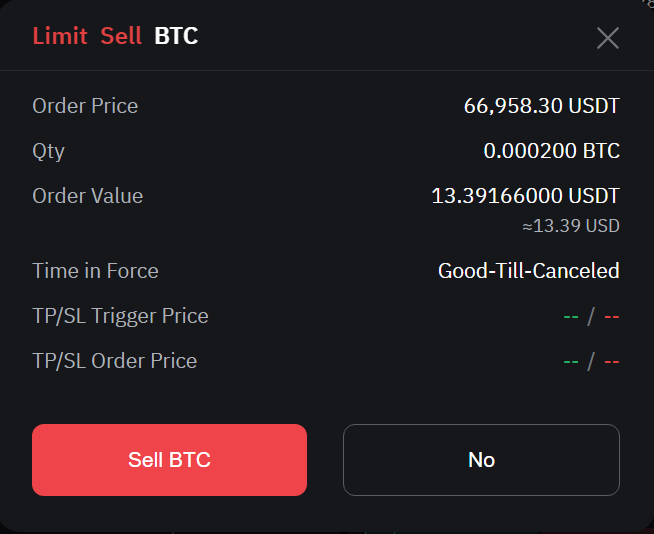
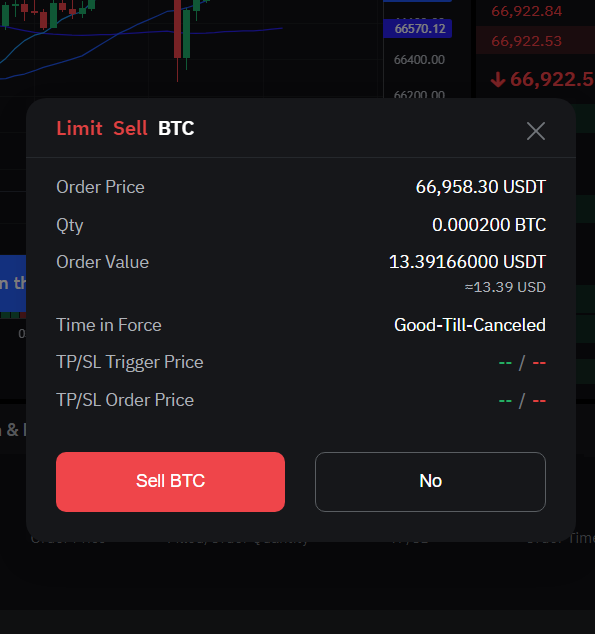
done bybit

diff --git a/src/app/insights/exchange-crypto/page.tsx b/src/app/insights/exchange-crypto/page.tsx
@@ -103,7 +103,7 @@ const cenExch = [
     ],
     images: [
       "/assets/InsightsAsset/bybit sell1.png",
-      "/assets/InsightsAsset/bybit sell3.png",
+      "/assets/InsightsAsset/bybit sell2.png",
     ],
   },
 ];
@@ -128,7 +128,7 @@ const Page = () => {
               {`It is a well-known local exchanging platform in the Philippines.
             it offers an easy process of trading of cryptocurrencies, as well as the option to transfer your funds to other online bank accounts such as GCash.
             Coins PH has a KYC feature whereas these features are only allowed for verified accounts.`}{" "}
-              <span className="font-semibold underline ">
+              <span className="font-semibold text-[#A519D7] underline ">
                 <a href="https://support.coins.ph/hc/en-us/articles/360000219141-How-do-I-get-my-account-ID-and-selfie-verified">
                   Learn to verify your account here
                 </a>
@@ -137,7 +137,7 @@ const Page = () => {
             <P>
               {`The website is easy to use with its user-friendly interface along with its cheap fees compared to other local exchanging platform.
             You can go to their website`}{" "}
-              <span className="font-semibold underline">
+              <span className="font-semibold text-[#A519D7] underline">
                 <a href="https://support.coins.ph/hc/en-us">help center</a>
               </span>{" "}
               {` for more information.`}
@@ -152,7 +152,7 @@ const Page = () => {
             />
             <P>
               <span className="italic">
-                <h4 className="font-bold">Note: </h4>
+                <p className="font-bold">Note: </p>
                 {` it is recommended to use the App version where it is much easier to navigate and to access anywhere. `}
               </span>
             </P>
@@ -168,7 +168,7 @@ const Page = () => {
               {`Additionally, Coins.ph gives users confidence by providing security measures like two-factor authentication and being overseen by the Bangko Sentral ng Pilipinas. 
             Coins.ph offers a comprehensive solution to satisfy your financial needs, whether you're wanting to receive remittances from overseas, expedite your regular transactions, or investigate investment opportunities in cryptocurrencies like Bitcoin and Ethereum.`}
             </P>
-
+            <P>{`Not only is it a beginner friendly choice but it also provide rewards with its referral system and seasonal promos and giveaways.`}</P>
             <h2 className="my-6 text-2xl font-bold">
               How to start with Coins PH
             </h2>
@@ -235,41 +235,172 @@ const Page = () => {
             </ul>
             <P>{`Now that your wallet has your desired cryptocurrency you are now able to make your transaction in the CoinsPH app.
             To be able to exchange your earned cryptocurrency, follow these following steps:`}</P>
+            <h3 className="text:md m-5 text-center font-bold xl:text-lg">
+              Steps in Selling your crypto
+            </h3>
+            {displaySteps("coinsphsell")}
+            <P>{`Congrats! you can now check your wallet balance and be able to transfer it to your Gcash Account or use it to pay for the services that Coins PH can offer.`}</P>
+            <P>{`Of course we can also do the opposite.
+            If you want to exchange our local currency into any cryptocurrency you can follow the following steps:`}</P>
+            <h3 className="text:md m-5 text-center font-bold xl:text-lg">
+              Steps in Buying a crypto
+            </h3>
+            {displaySteps("coinsphbuy")}
           </div>
-          <h3 className="text:md m-5 text-center font-bold xl:text-lg">
-            Steps in Selling your crypto
-          </h3>
-          {displaySteps("coinsphsell")}
-          <P>{`Congrats! you can now check your wallet balance and be able to transfer it to your Gcash Account or use it to pay for the services that Coins PH can offer.`}</P>
-          <P>{`Of course we can also do the opposite.
-          If you want to exchange our local currency into any cryptocurrency you can follow the following steps:`}</P>
-          <h3 className="text:md m-5 text-center font-bold xl:text-lg">
-            Steps in Buying a crypto
-          </h3>
-          {displaySteps("coinsphbuy")}
         </div>
         <div id="bybit">
           <h2 className="my-6 text-2xl font-bold">Bybit</h2>
           <P>
-            {`Lorem Ipsum is simply dummy text of the printing and typesetting
-            industry. Lorem Ipsum has been the industry's standard dummy text
-            ever since the 1500s, when an unknown printer took a galley of type
-            and scrambled it to make a type specimen book. It has survived not
-            only five centuries, but also the leap into electronic typesetting,
-            remaining essentially unchanged. It was popularised in the 1960s
-            with the release of Letraset sheets containing Lorem Ipsum passages,
-            and more recently with desktop publishing software like Aldus
-            PageMaker including versions of Lorem Ipsum.`}
+            {`A cryptocurrency exchange well-known for its quickness and concentration on trading derivatives, especially perpetual contracts, is ByBit. 
+            This enables leveraged trading, in which you can borrow money to take control of a position that is bigger than your account balance. 
+            For traders seeking a fast-paced, user-friendly platform with possibly larger returns (and dangers) on derivatives trading, ByBit is the perfect option. 
+            ByBit is less appropriate, nevertheless, for new users or those seeking a broader selection of cryptocurrencies or a platform for just purchasing and storing cryptocurrency.`}
           </P>
-          <h3 className="text:md m-5 text-center font-bold xl:text-2xl">
-            How to buy your crypto
-          </h3>
-          {displaySteps("bybitbuy")}
-          <h3 className="text:md m-5 text-center font-bold xl:text-2xl">
-            How to sell your crypto
-          </h3>
-          {displaySteps("bybitsell")}
+          <P>
+            {`Like other exchange platform, ByBit requires a KYC verification in order to allow access to its features.`}
+            <span className="text[#A519D7] font-semibold underline">
+              <a href="https://www.bybit.com/en/help-center/article/How-to-Complete-Individual-KYC-Verification">
+                learn how to verify in ByBit here
+              </a>
+            </span>
+          </P>
+          <div>
+            <h2 className="my-6 text-2xl font-bold">How to start with ByBit</h2>
+            <P>
+              {`After verifying your account you are now able to trade and exchange your cryptocurrencies, but before that here are quick tips that may help you.`}
+            </P>
+            <ul className="-mt-2 ml-14 list-disc text-gray-300">
+              <li className="mb-3">
+                <span className="font-bold">Fund your account:</span>
+                {` To begin trading, you must have cryptocurrency. Various cryptocurrencies, not fiat money (such Philippine Peso), are accepted as deposits on ByBit. 
+            To use ByBit, you must transfer cryptocurrency from another wallet or exchange.`}
+              </li>
+              <li className="mb-3">
+                <span className="font-bold">
+                  Investigate the ByBit platform:
+                </span>
+                {` Become acquainted with the user interface and functionalities like as order kinds, fees, and margin requirements (if leverage is being used). 
+            They provide guidelines and tutorials to get you going.`}
+              </li>
+              <li className="mb-3">
+                <span className="font-bold">
+                  Think about your trading approach:
+                </span>
+                {` Choose the cryptocurrencies you wish to trade and if you plan to trade regularly (spot) or with leverage (derivatives). 
+              Recall that while leverage can boost prospective gains, it can also amplify potential losses.`}
+              </li>
+              <li className="mb-3">
+                <span className="font-bold">Start small (optional):</span>
+                {` Before taking on greater risks, it's advisable to begin with a little investment if you're new to cryptocurrency trading in order to gain familiarity with the platform and the market.`}
+              </li>
+            </ul>
+            <P>{`Funding your account is necessary`}</P>
+            <h2 className="my-6 text-2xl font-bold">
+              Fund your account (Deposit)
+            </h2>
+            <P>{`Here are a few steps To deposit cryptocurrency into your account.`}</P>
+            <Image
+              src="/assets/InsightsAsset/bybit deposit1.png"
+              alt="CoinsPH HomePage"
+              width={1080}
+              height={1920}
+              className="max-h-full max-w-[25rem]"
+            />
+            <Image
+              src="/assets/InsightsAsset/bybit deposit2.png"
+              alt="CoinsPH HomePage"
+              width={1080}
+              height={1920}
+              className="mt-7 max-h-[30rem] max-w-full"
+            />
+            <P>
+              <span className="italic">
+                <p className="font-bold">Note: </p>
+                {` Fiat deposits are also available if you want to deposit USDT or other similar currency.`}
+              </span>
+            </P>
+          </div>
+          <div>
+            <h2 className="my-6 text-2xl font-bold">Start your first trade</h2>
+
+            <P>{`Now that you have sufficient funds, it is time to exchange them into your country's currency or to another cryptocurrency.
+          ByBit provides two options: Trade and Convert. `}</P>
+            <h3 className="text:lg font-bold xl:text-xl">Convert</h3>
+            <Image
+              src="/assets/InsightsAsset/bybit convert1.png"
+              alt="CoinsPH HomePage"
+              width={1080}
+              height={1920}
+              className="my-7 max-h-full max-w-[30rem]"
+            />
+            <Image
+              src="/assets/InsightsAsset/bybit convert2.png"
+              alt="CoinsPH HomePage"
+              width={1080}
+              height={1920}
+              className="mt-7 max-h-full max-w-[30rem]"
+            />
+            <P>{`Convert will typically exchange your cryptocurrency into fiat money or real currencies. This also has the benefit of minimal to no transaction fees.`}</P>
+            <P>{`Trade on the other hand gives you the option to exchange directly to fiat money or to other type of cryptocurrency. 
+          Although we recommend the Trade feature as it has a slightly more profit than in Convert. Feel free to explore more about ByBit's Trade feature.`}</P>
+
+            <h3 className="text:lg font-bold xl:text-xl">Trade</h3>
+            <Image
+              src="/assets/InsightsAsset/bybit trade1.png"
+              alt="CoinsPH HomePage"
+              width={1080}
+              height={1920}
+              className="mt-7 max-h-full max-w-[30rem]"
+            />
+            <Image
+              src="/assets/InsightsAsset/bybit trade2.png"
+              alt="CoinsPH HomePage"
+              width={1080}
+              height={1920}
+              className="mt-7 max-h-full max-w-full"
+            />
+            <P>{`With the introduction out of the way you can now start exchange your cryptocurrency. We will be using the Trade feature of Bybit, these are the following steps accordingly: `}</P>
+            <h3 className="text:md m-5 text-center font-bold xl:text-xl">
+              How to buy your crypto
+            </h3>
+            {displaySteps("bybitbuy")}
+            <h3 className="text:md m-5 text-center font-bold xl:text-xl">
+              How to sell your crypto
+            </h3>
+            {displaySteps("bybitsell")}
+          </div>
+          <div>
+            <h2 className="my-6 text-2xl font-bold">{`What's next?`}</h2>
+            <P>{`Since bybit is an international exchanging platform it may become confusing as to how to convert your USD into PHP, therefore we will provide you tips on how to do so.`}</P>
+            <ul className="-mt-2 ml-14 list-disc text-gray-300">
+              <li className="mb-3">
+                <span className="font-bold">Withdraw your crypto:</span>
+                {`  After selling your cryptocurrency on ByBit through perpetual contracts, you'll end up with another cryptocurrency, typically USDT (Tether). 
+              You'll need to withdraw this USDT from ByBit to a platform that allows conversion to PHP.`}
+              </li>
+              <li className="mb-3">
+                <span className="font-bold">
+                  Transfer to a PHP-friendly platform:
+                </span>
+                {` Choose a cryptocurrency exchange platform in the Philippines that allows PHP trading, like PDAX or Coins.ph. 
+              Send your USDT from ByBit to your chosen platform's USDT wallet address.`}
+              </li>
+              <li className="mb-3">
+                <span className="font-bold">Sell USDT for PHP:</span>
+                {` Once your USDT arrives in your chosen platform's wallet, you can then sell it for PHP on their platform. 
+              They will have options to initiate a PHP withdrawal which you can transfer to your Philippine bank account.`}
+              </li>
+            </ul>
+            <P>
+              <span className="italic">
+                <p className="font-bold">Important Note: </p>
+                {` Remember, there might be fees associated with each step of this process, including withdrawal fees on ByBit and trading fees on the PHP platform.  
+              Make sure to factor these in when planning your conversion.`}
+              </span>
+            </P>
+          </div>
         </div>
+
         <div id="binance">
           <h2 className="my-6 text-2xl font-bold">Binance</h2>
           <P>
@@ -280,7 +411,7 @@ const Page = () => {
           </P>
           <P>
             {`In starting your binance experience you should start by creating an account and entering your information for verification. `}
-            <span className="font-semibold underline">
+            <span className="font-semibold text-[#A519D7] underline">
               <a href="https://www.binance.com/blog/nft/how-to-verify-your-new-binance-account-and-claim-your-cr7-foreverzone-box-6753024416772061769#:~:text=Log%20in%20to%20your%20Binance,back%20after%20completing%20this%20step.">
                 learn more about KYC and Verification
               </a>
